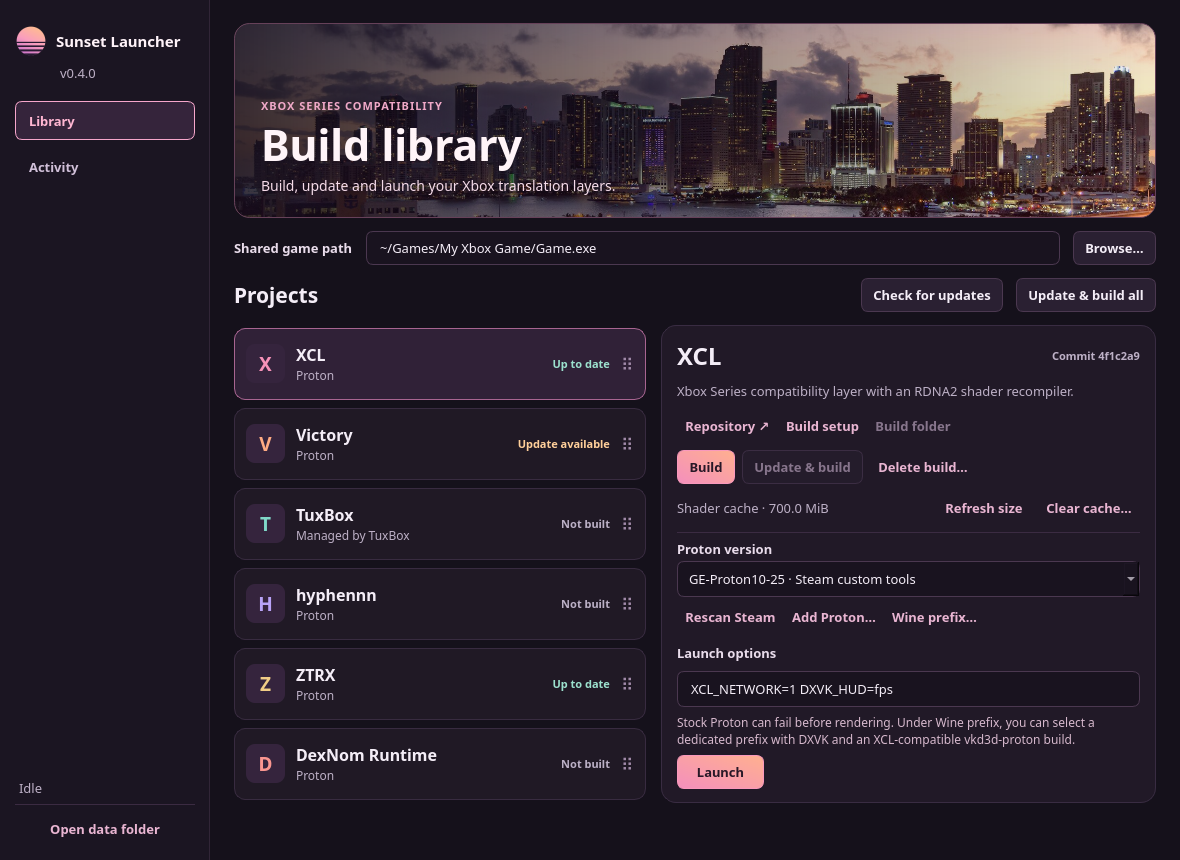
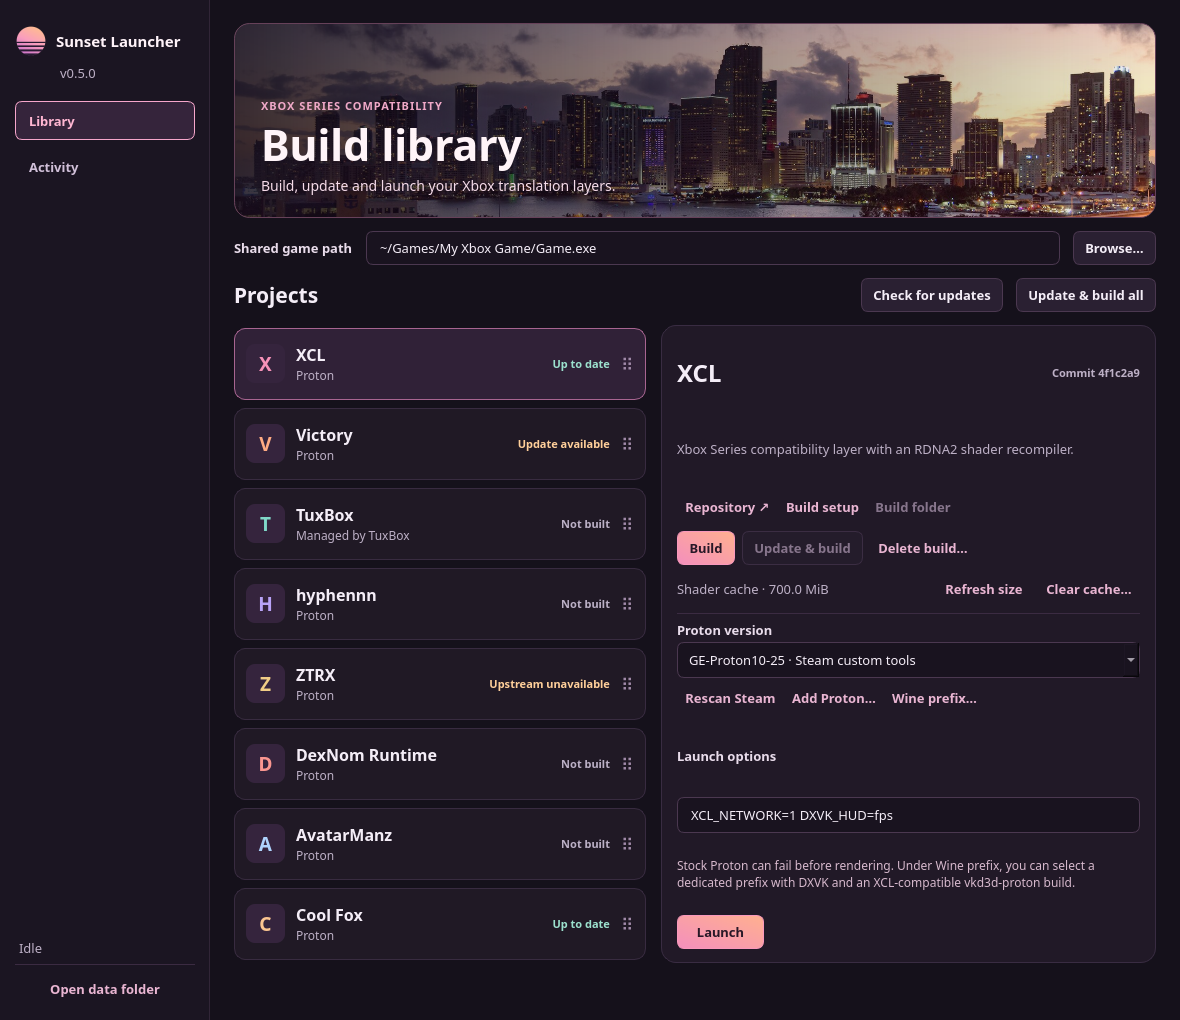
Add AvatarManz, Cool Fox and the ZTRX status to the README
Bring v0.5.0's new layers into the refreshed layout and re-render the
screenshots with the full eight-project library.

diff --git a/README.md b/README.md
@@ -32,10 +32,12 @@ Keep the extracted folder together, including `_internal`. The Windows build is 
 | [Victory](https://github.com/Marvisak/VIctory) | ✅ Proton (experimental) | ✅ Native |
 | [TuxBox](https://github.com/brcly/TuxBox) | ✅ Managed by TuxBox | — Linux only |
 | [hyphennn](https://github.com/fxceless/victory-fork) | ✅ Proton (experimental) | ✅ Native |
-| [ZTRX](https://github.com/Zettrox/ztrx) | ✅ Proton (experimental) | ✅ Native, NVIDIA RTX |
 | [DexNom Runtime](https://github.com/DexNom/VIctory) | ✅ Proton (experimental) | ✅ Native |
+| [AvatarManz](https://github.com/avatarmanz/VIctory-7900XTX) | ✅ Proton (experimental) | ✅ Native, tested on RX 7900 XTX |
+| [Cool Fox](https://github.com/codec-d/cool_fox) | ✅ Proton (experimental) | ✅ Native, Series S preset |
+| ZTRX | ⚠ Existing builds only | ⚠ Existing builds only |
 
-Whether a particular title runs depends on the upstream project, the build and your hardware.
+ZTRX's upstream repository is no longer on GitHub. Existing local builds still launch, and update checks skip it. Whether a particular title runs depends on the upstream project, the build and your hardware.
 
 ## ✨ Features
 
@@ -61,13 +63,14 @@ Whether a particular title runs depends on the upstream project, the build and y
 - **XCL on Linux:** stock Proton can fail before rendering. Under **Wine prefix**, select a prefix prepared with DXVK and an XCL-compatible vkd3d-proton build. Place the matching x64 `dxcompiler.dll` and `dxil.dll` from a [DXC release](https://github.com/microsoft/DirectXShaderCompiler/releases) beside `xcl.exe`.
 - **Victory and hyphennn:** some titles need a native Microsoft D3DCompiler DLL in the prefix.
 - **DexNom Runtime on Linux:** the build needs PowerShell (`pwsh`) to download and verify its format tables.
+- **AvatarManz and Cool Fox:** each comes preset with its upstream renderer settings ([AvatarManz](https://github.com/avatarmanz/VIctory-7900XTX#how-to-run-it), [Cool Fox](https://github.com/codec-d/cool_fox#run-the-codec_d-windows-build)). Add `VAR=value` in **Launch options** to override any of them.
 - **TuxBox:** selects its own Proton through umu. Some titles need its built providers staged first. See the [Lanes example](https://github.com/brcly/TuxBox/blob/main/examples/lanes/README.md#build-and-play).
 - **Launch argument placement:**
 
   | Layer | Where launch arguments go |
   | --- | --- |
   | XCL | To the game |
-  | Victory, hyphennn, ZTRX, DexNom Runtime | To the layer. Arguments after `--` go to the game |
+  | Victory and its forks | To the layer. Arguments after `--` go to the game |
   | TuxBox | To the layer |
 
 - **Build tools in the data folder:** on Linux, tools placed under `build-tools/` in the data folder are picked up. These include Cargo and Rustup, MinGW-w64, DXC and the cargo-xwin SDK cache.
